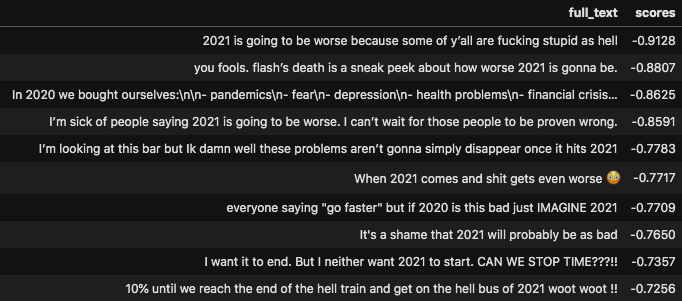
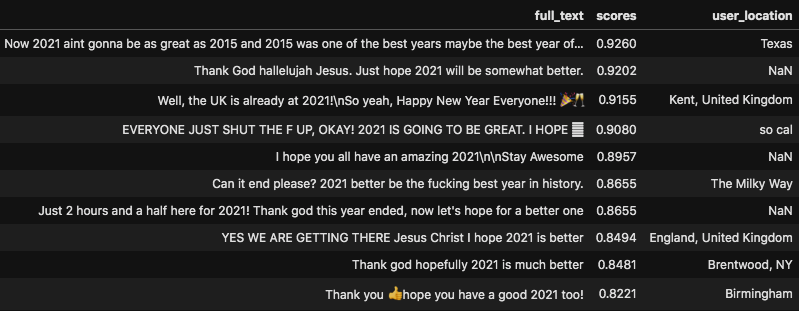
tweak

diff --git a/projects/2020.md b/projects/2020.md
@@ -1,6 +1,7 @@
 # Analysing optimism in 2020
 
 *AUTHOR*: Emre Okcular
+
 Date : January 31st 2021
 
 After an extraordinary year, we have already completed 8% of the 2021.
@@ -11,26 +12,30 @@ Did you ever wonder the optimism trend about 2021 during 2020 ?
 
 To answer this question, all the tweets and its replies of the twitter bot account [Progress Bar 2021](https://twitter.com/ProgressBar202_) is collected with Twitter API.
 
-![5percent](/resources/profile.png)
-
 Progress Bar 2021 divides the year into 100 pieces and tweets 1% progress in every 4 days.
+
+![5percent](/resources/profile.png)
 
 ![5percent](/resources/timeline.png)
 
-100 tweets that show the progress of the year and the replies are collected and analysed.
+100 tweets that show the progress of the 2020 and its replies are analysed.
 
-In below graph, favorites and retweet counts is collected for each tweet which represents 1% progress.
+In below graph, favorites and retweet counts is visualized   for each tweet which represents 1% progress.
 
-It is interesting that July 202 has one of the highest like.
+It is interesting that July 2020 has one of the highest like.
 
 ![5percent](/resources/trend.png)
 
-Secondly, all the replies are collected with Twitter API with below criteria:
+Secondly, all the replies are retrieved with Twitter API with below criteria:
 * Language is English
 * All media (photo,video, etc.) excluded
 * Contains keyword "2021"
 
-```to:@ProgressBar202_ lang:en -has:links 2021```
+```query = 'to:@ProgressBar202_ lang:en -has:links 2021'```
+
+Then compound sentiment scores are calculated for all replies by using [VaderSentiment](https://github.com/cjhutto/vaderSentiment). The compound score is computed by summing the valence scores of each word, and then normalized to be between -1 (most extreme negative) and +1 (most extreme positive).
+
+From January to July replies contains 2021 have positive sentiment score mostly. Between July and November negative replies about 2021 increased significantly. After November it is clear that good wishes about 2021 is increased.
 
 ![5percent](/resources/sentiment.png)
 
@@ -46,6 +51,6 @@ Below you can see the wordcloud of all the replies. The size of the word represe
 
 ![5percent](/resources/wordcloud.png)
 
-> Finally, it is clear that we always have have faith for better future. 
+Finally, it is clear that we always have faith for a better future. 
 
 You can check the [github repository](https://github.com/emreokcular/optimism-in-2020) for the source code.
